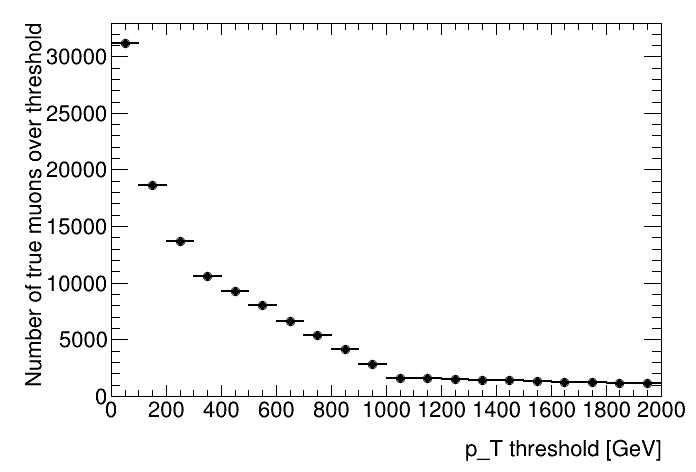
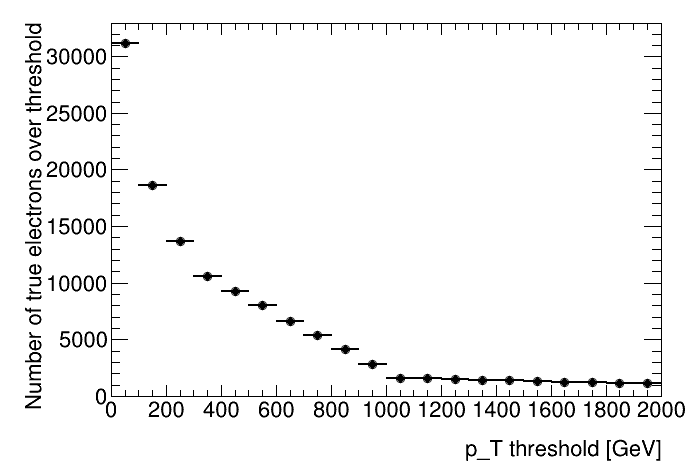
saving plots

Changed region(s): [[0.0302, 0.3559, 0.0603, 0.8898], [0.0302, 0.0297, 0.0603, 0.2373], [0.0302, 0.2669, 0.0603, 0.3263]]

diff --git a/makeMuonPlots.py b/makeMuonPlots.py
@@ -10,20 +10,17 @@ ROOT.gROOT.SetBatch()
 
 # Set up some options
 max_events = -1
-##-- shows the paths im trying as of 4/19 to get the script to run properly(with muons)
+
 # Gather input files
 # Note: these are using the path convention from the singularity command in the MuCol tutorial (see README)
 
-#fnames= glob.glob("/data/fmeloni/DataMuC_MuColl10_v0A/v0/recoBIB/muonGun_pT_1000_5000*/*.slcio")
 
 fnames= glob.glob("/data/fmeloni/DataMuC_MuColl10_v0A/v0/reco/electronGun*/*.slcio")
 
 
 ##fnames= glob.glob("/data/fmeloni/DataMuC_MuColl10_v0A/v0/recoBIB/muonGun_pT_0_50/muonGun_pT_0_50_reco_10.slcio")
-#the one above worked!
+#the one above worked for muons ---- now switching to electrons
 
-
-####fnames = glob.glob("/data/fmeloni/DataMuC_MuColl10_v0A/v0/recoBIB/muonGun*/*.slcio")
 ##fnames = glob.glob("/data/fmeloni/DataMuc_MuColl10_v0A/v0/reco/muonGun/*.slcio")
 ##fnames = glob.glob("/data/fmeloni/DataMuc_MuColl10_v0A/v0/k4reco/muonGun_pT_0_50/*.root")
 ##fnames = glob.glob("/data/fmeloni/DataMuC_MuColl10_v0A/v0/reco/muonGun_pT_250_1000*/*.slcio")
@@ -190,7 +187,8 @@ for ibin in range(1, h.GetNbinsX()+1):
 c = ROOT.TCanvas("cint", "cint")
 hint.Draw()
 hint.GetXaxis().SetTitle("p_T threshold [GeV]")
-hint.GetYaxis().SetTitle("Number of true muons over threshold")
+hint.GetYaxis().SetTitle("Number of true electrons over threshold")
+
 c.SaveAs("plots/mcp_e_pt_thresh.png")
 
 # Make efficiency plots
